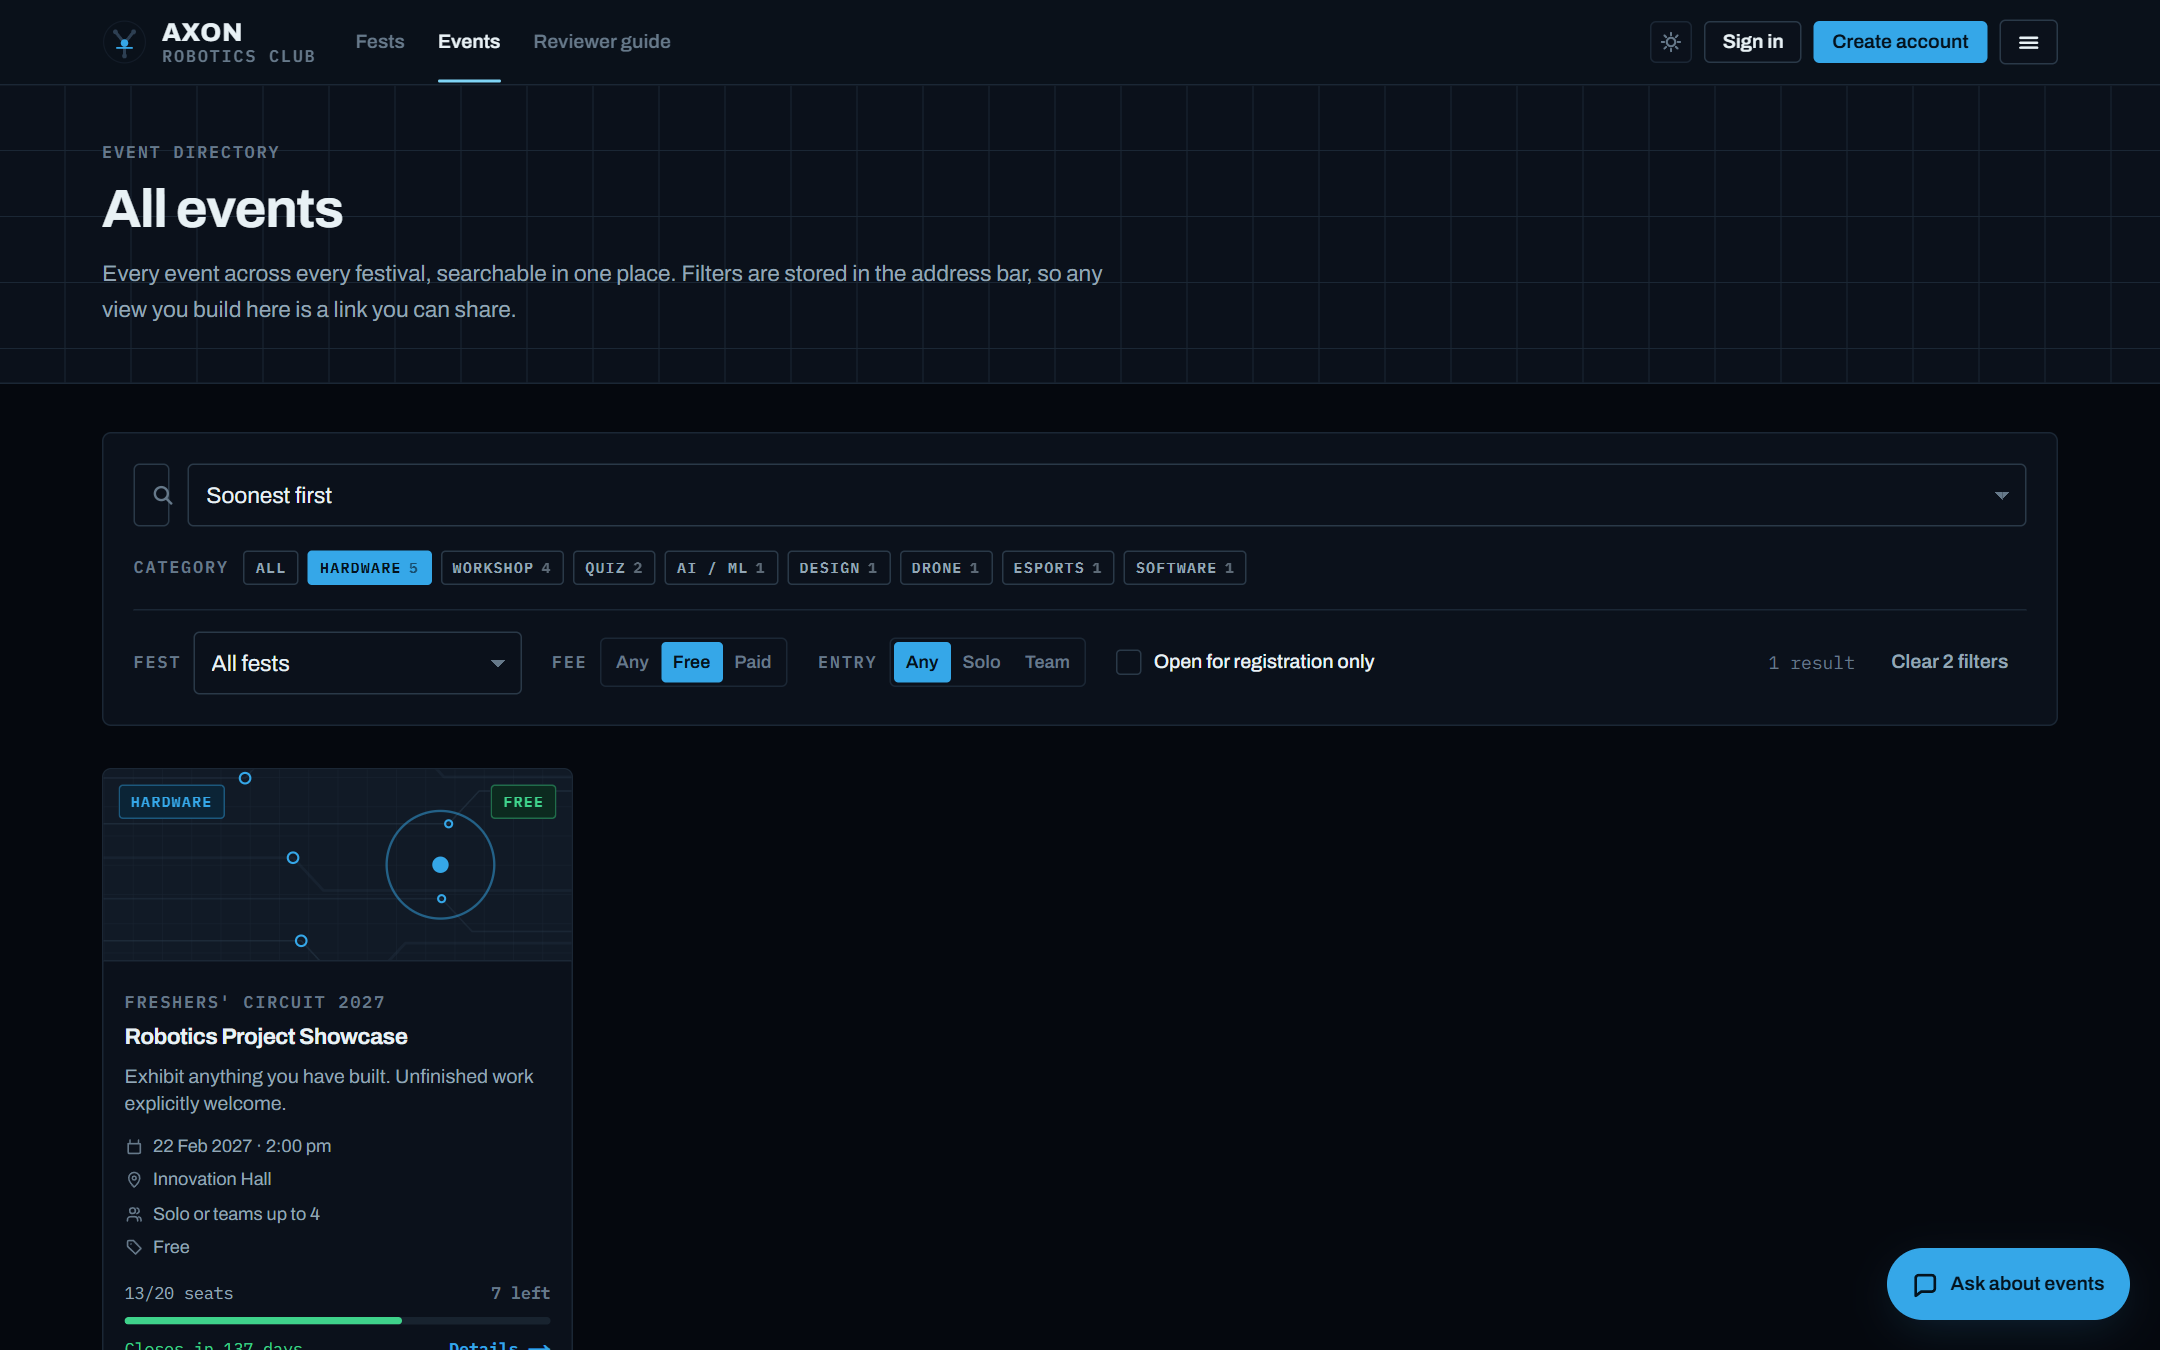
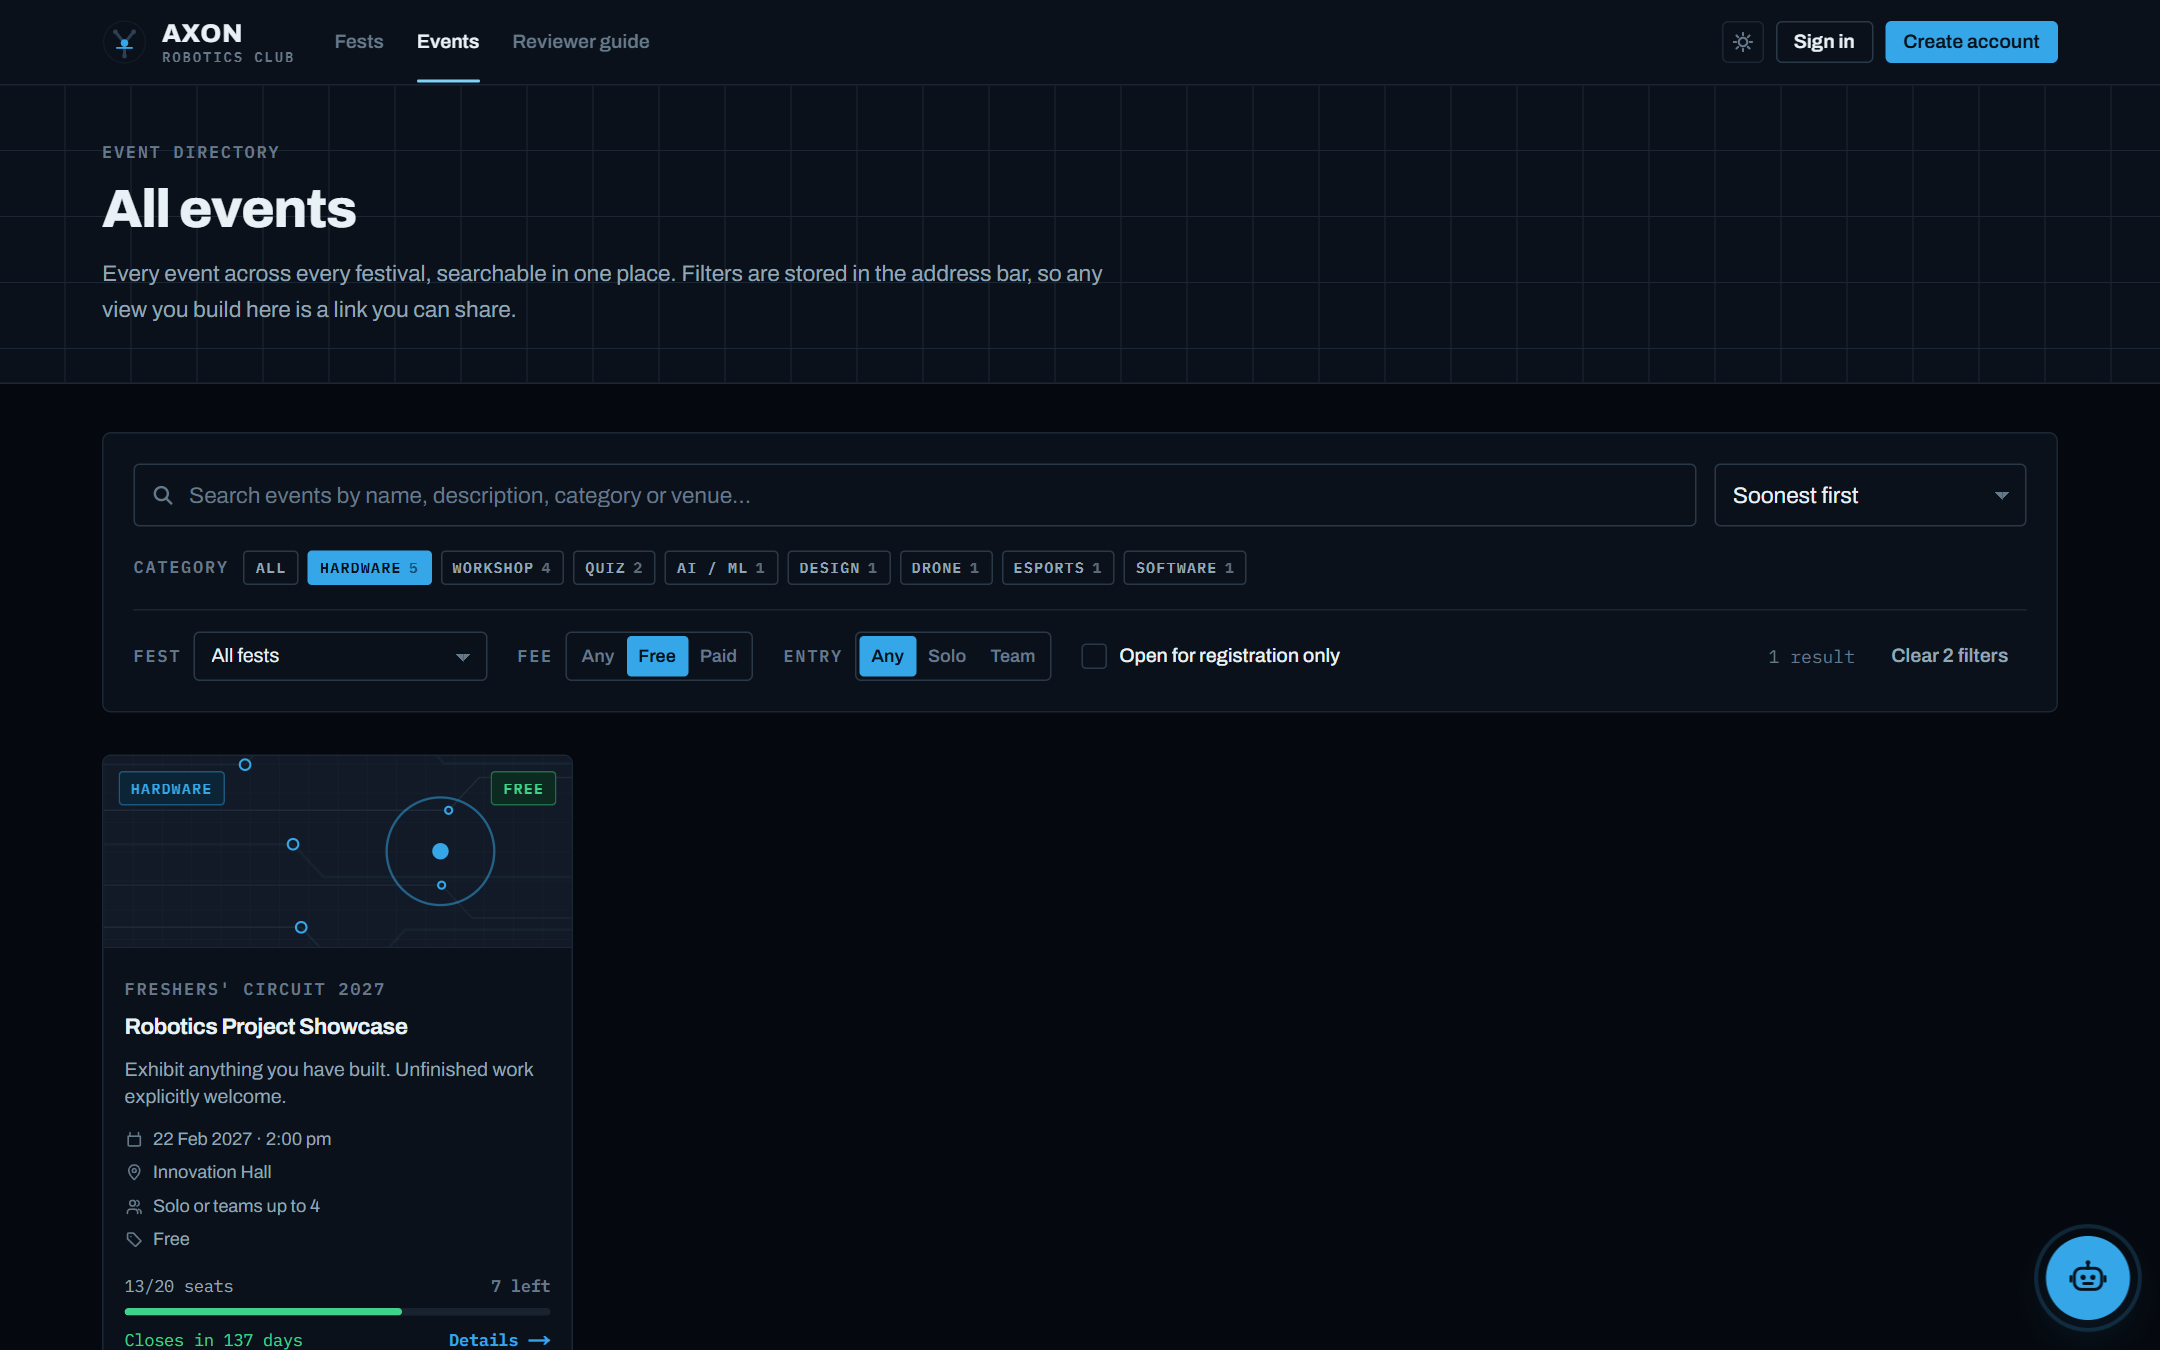
Re-capture screenshots with the fixed menu and robot launcher
Adds a mobile-menu capture showing the drawer at full height, and
refreshes the rest so the README matches what is deployed.

diff --git a/README.md b/README.md
@@ -283,10 +283,15 @@ particle field with an orbital system — all drawn on canvas, with no hero imag
 
 ### Responsive and theming
 
-| Mobile — events | Mobile — admin | Light theme |
-|---|---|---|
-| ![Mobile events](docs/screenshots/13-mobile-events.png) | ![Mobile admin](docs/screenshots/14-mobile-admin.png) | ![Light theme](docs/screenshots/15-light-theme.png) |
-| 390px wide. | The participants table becomes cards under 768px. | Dark is the default; light is an opt-in on the toggle. |
+| Mobile — events | Mobile — admin |
+|---|---|
+| ![Mobile events](docs/screenshots/13-mobile-events.png) | ![Mobile admin](docs/screenshots/14-mobile-admin.png) |
+| 390px wide. | The participants table becomes cards under 768px. |
+
+| Mobile menu | Light theme |
+|---|---|
+| ![Mobile menu](docs/screenshots/16-mobile-menu.png) | ![Light theme](docs/screenshots/15-light-theme.png) |
+| Full-height drawer, portalled out of the header so a backdrop-filter cannot trap it. | Dark is the default; light is an opt-in on the toggle. |
 
 ### Reviewer guide
 
